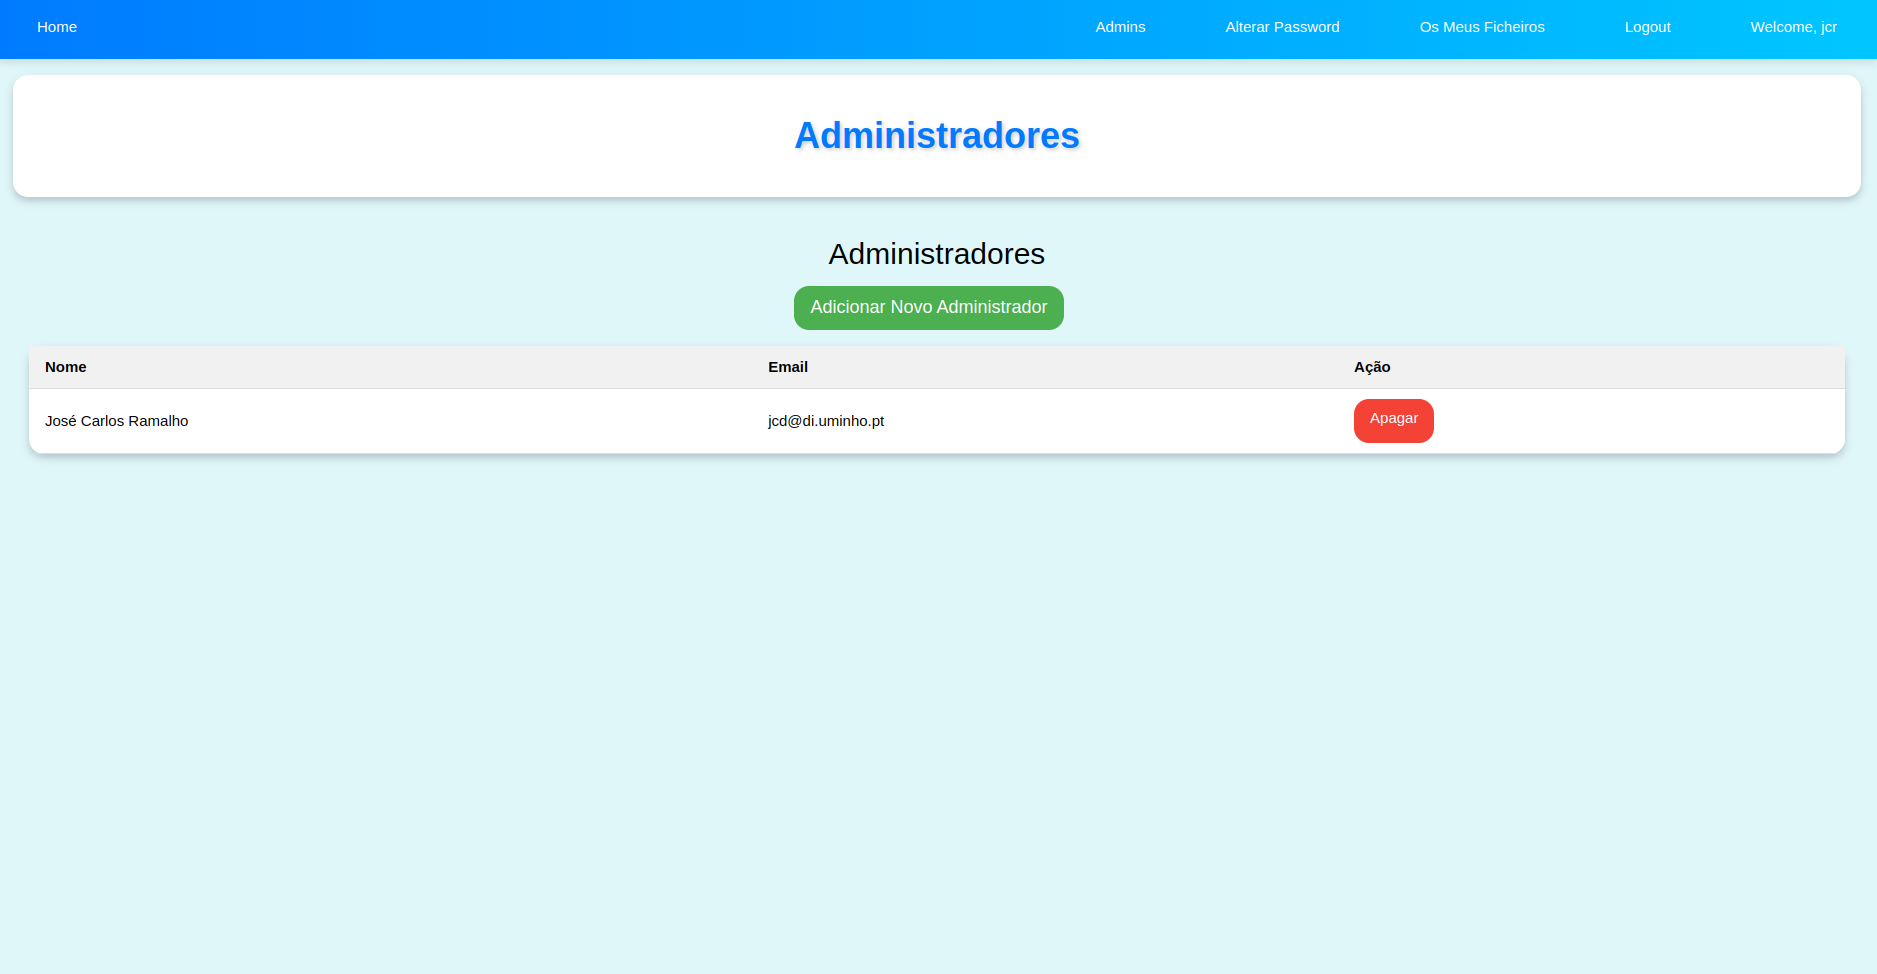
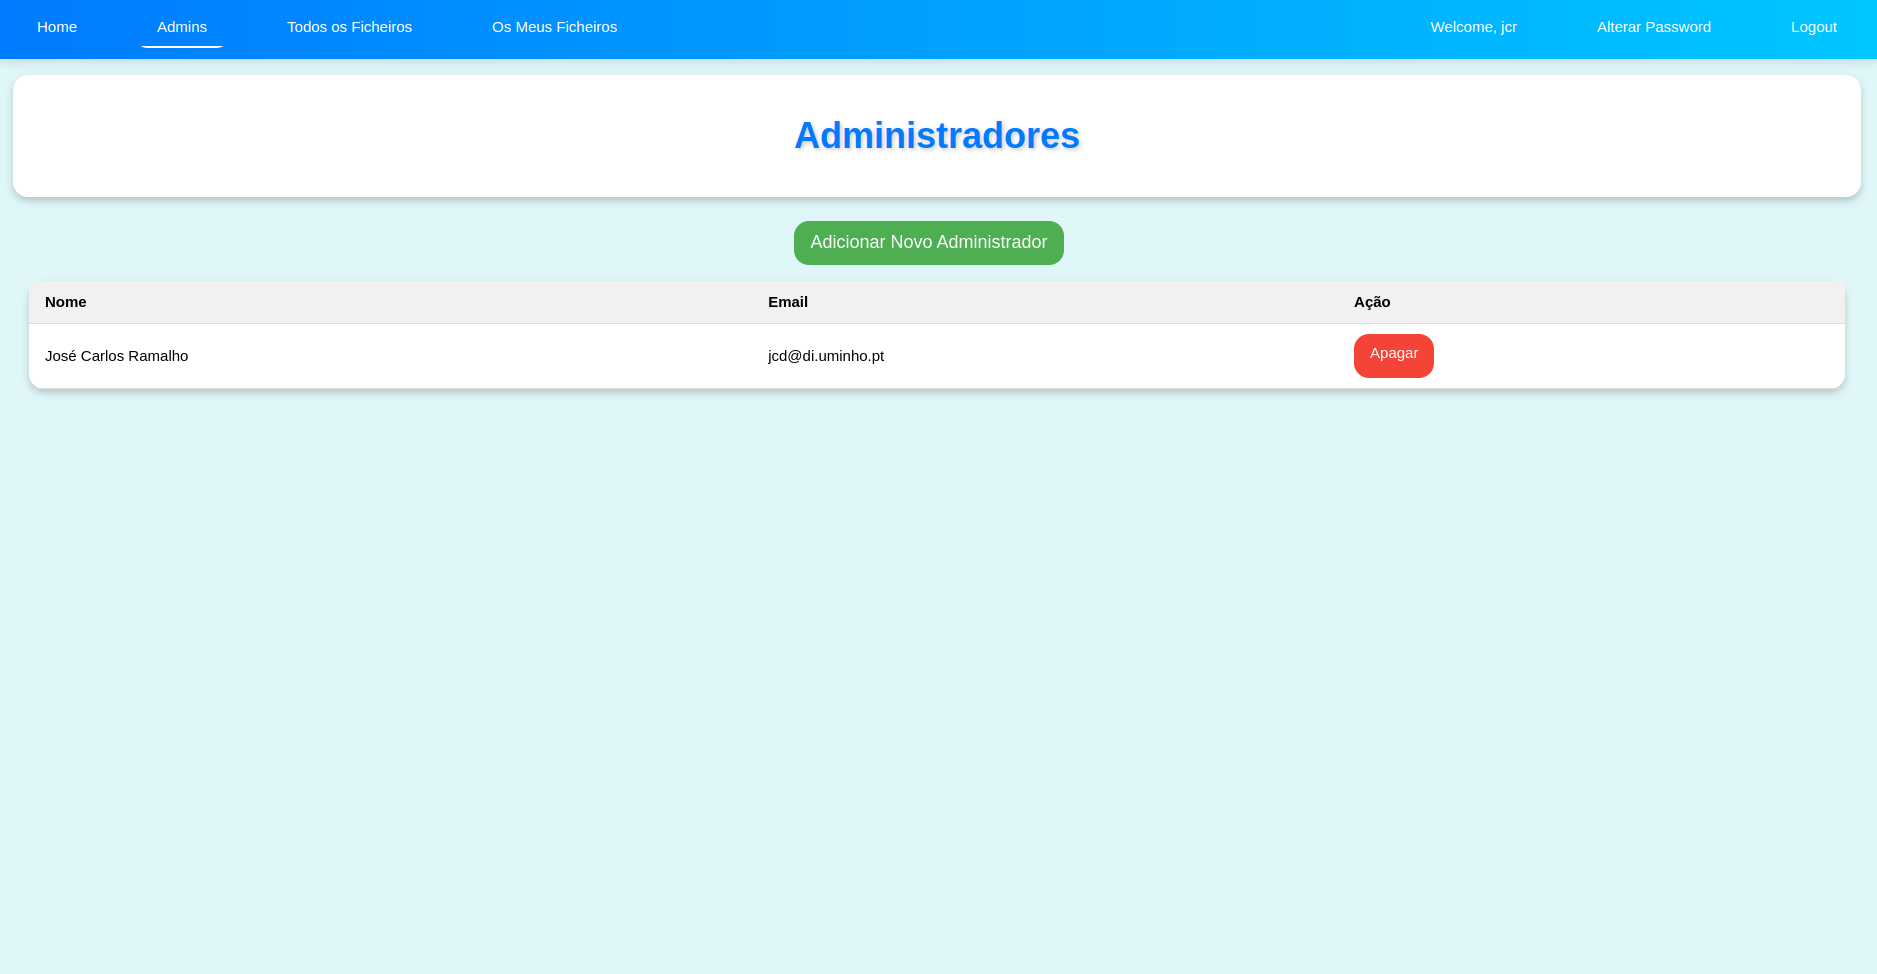
relatorio

diff --git a/README.md b/README.md
@@ -142,8 +142,9 @@ A interface HTML é configurada para ser executada em um container Docker, garan
 ### 5. **Autenticação e Autorização**
 
 - **Registo de Utilizador**: Formulário para criar uma nova conta de utilizador.
-- **Registo de Administrador**: Formulário para criar uma nova conta de Administrador, caso já seja um.
-- **Consulta e Remoção de Utilizadores**: Página que permite visualizar os administradores que existem, e remover caso seja necessário.
+- **Registo de Administrador**: Formulário para criar uma nova conta de Administrador (é necessário ser administrador).
+- **Consulta e Remoção de Administradores**: Página que permite visualizar os administradores que existem, e remover caso seja necessário (é necessário ser administrador).
+- **Consulta e Remoção de Todos os Ficheiros**: Página que permite aos administradores visualizar e remover todos os ficheiros do servidor.  
 - **Alteração de Password**: Formulário para alterar a password do utilizador.
 - **Login**: Formulário de login que autentica os utilizadores e gera um token JWT.
 - **Logout**: Opção de logout que termina a sessão do utilizador.
